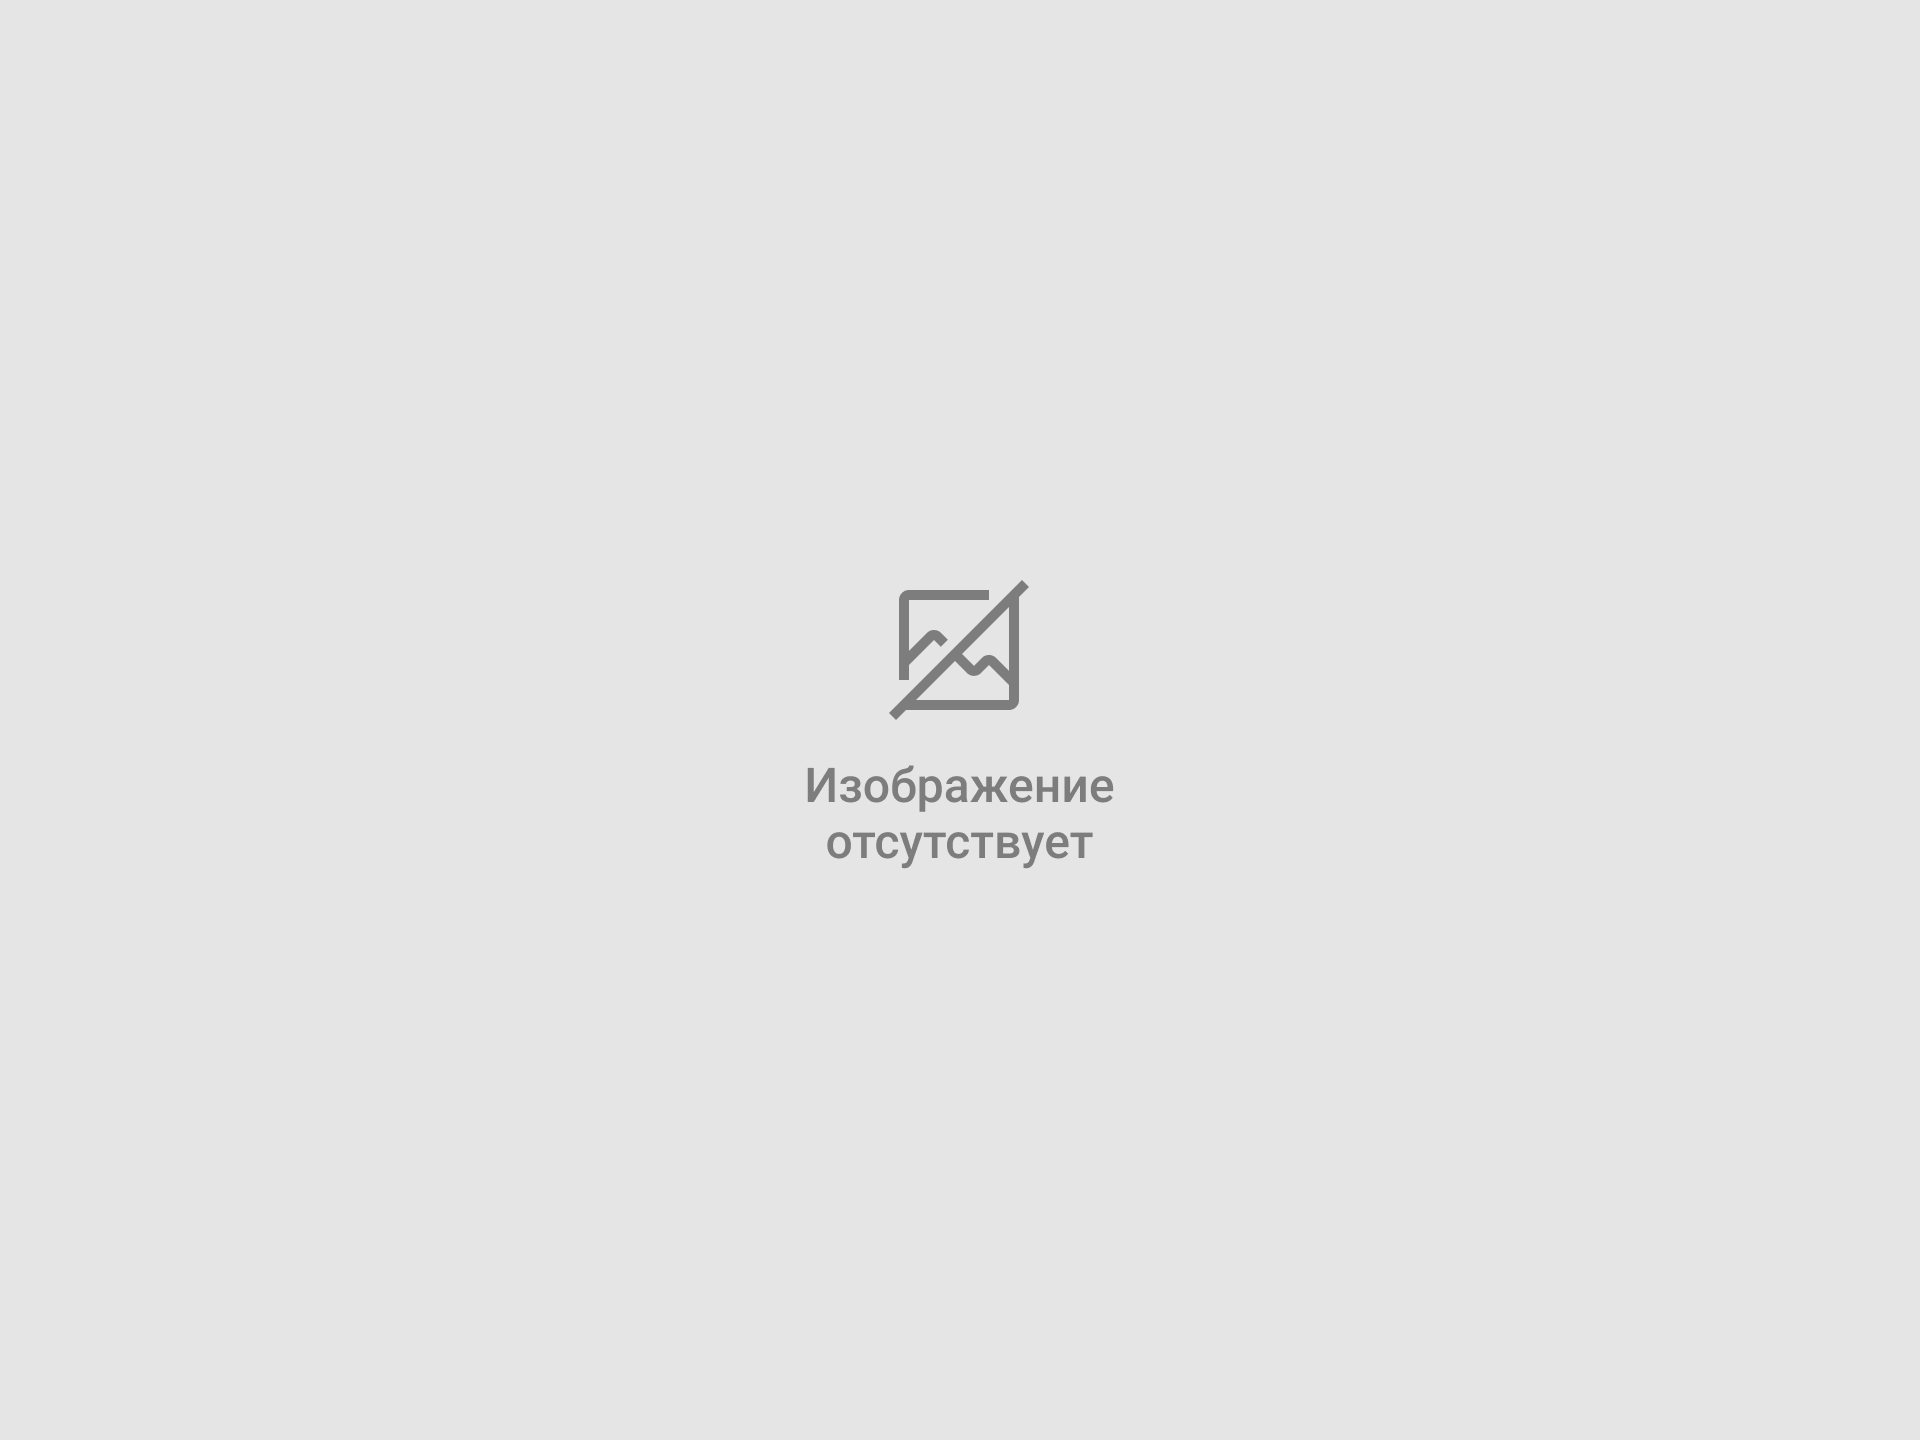
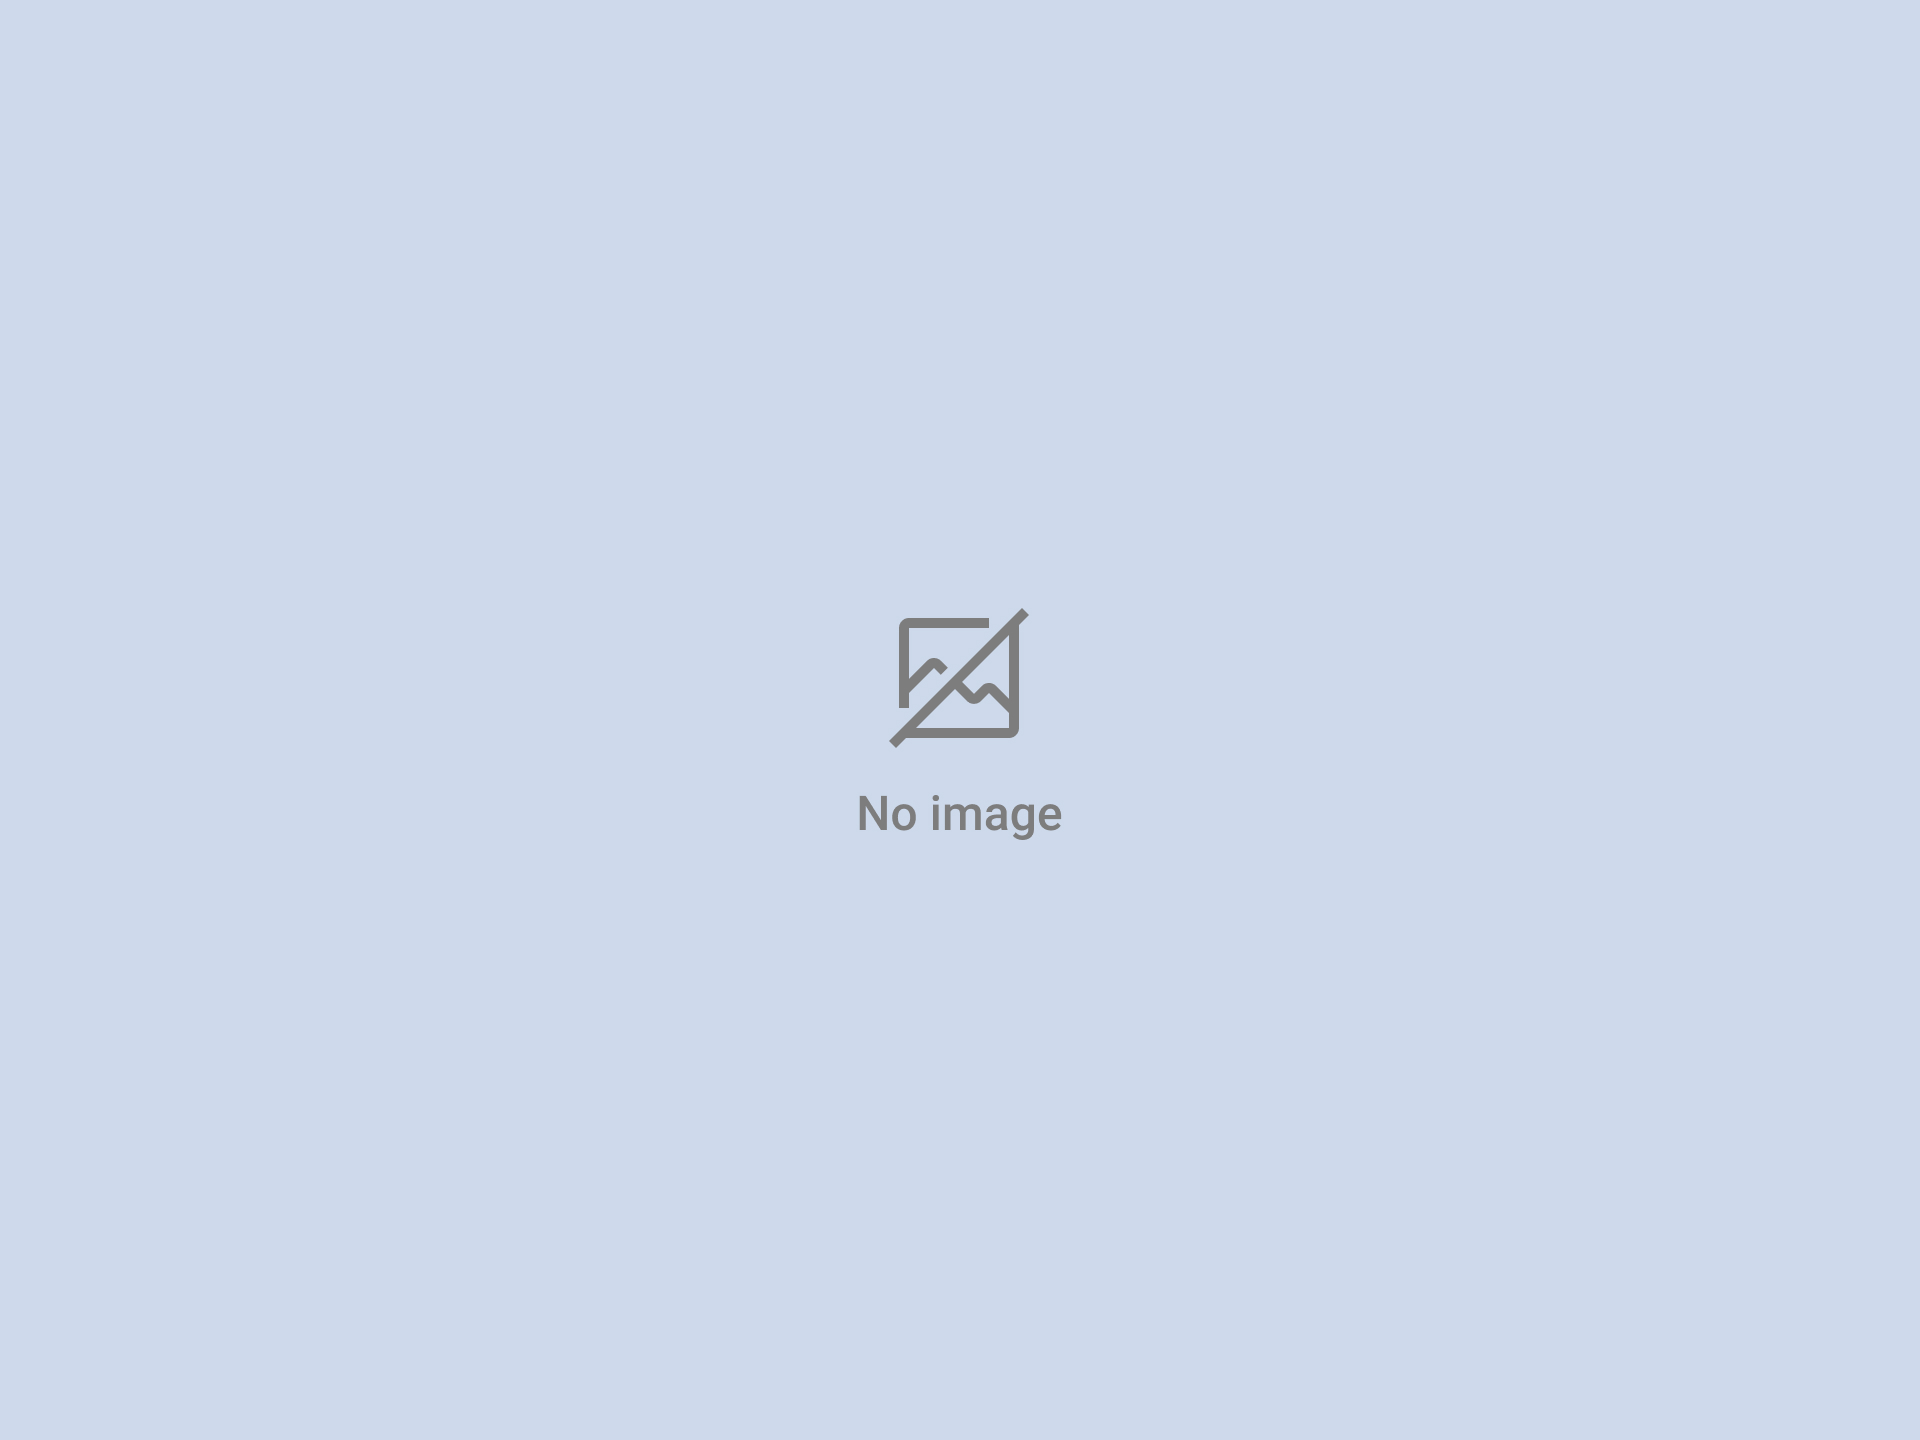
feat: update page 404

Changed region(s): [[0.4062, 0.4062, 0.5938, 0.5938]]

diff --git a/assets/css/universal-theme.css b/assets/css/universal-theme.css
@@ -415,22 +415,29 @@ body {
   margin-top: 8px;
 }
 
-.more {
+.more,
+.button {
   display: inline-block;
   color: #fff;
   padding: 10px 20px;
-  padding-right: 50px;
   border-radius: 20px;
   background: #4592FF;
   text-decoration: none;
-  background-image: url("../images/arrow.svg");
-  background-repeat: no-repeat;
-  background-position: center right 20px;
   border: none;
   cursor: pointer;
 }
-.more:visited, .more:focus, .more:hover {
+.more:visited, .more:focus, .more:hover,
+.button:visited,
+.button:focus,
+.button:hover {
   color: #fff;
+}
+
+.more {
+  background-image: url("../images/arrow.svg");
+  background-repeat: no-repeat;
+  background-position: center right 20px;
+  padding-right: 50px;
 }
 
 .category-link {
@@ -2569,4 +2576,28 @@ nav.navigation.pagination {
 
 .video {
   width: 100%;
+}
+
+.page404 {
+  background-color: #ffeb13;
+  display: grid;
+  place-items: center center;
+  height: 100%;
+  min-height: 50vh;
+  width: 100%;
+}
+.page404-content {
+  display: -webkit-box;
+  display: -ms-flexbox;
+  display: flex;
+  -webkit-box-align: center;
+      -ms-flex-align: center;
+          align-items: center;
+  -webkit-box-pack: center;
+      -ms-flex-pack: center;
+          justify-content: center;
+  -webkit-box-orient: vertical;
+  -webkit-box-direction: normal;
+      -ms-flex-direction: column;
+          flex-direction: column;
 }

diff --git a/assets/sass/_hero.sass b/assets/sass/_hero.sass
@@ -101,21 +101,23 @@
         font-weight: 400
         margin-bottom: 0
         margin-top: 8px
-.more
+.more,
+.button
   display: inline-block
   color: #fff
   padding: 10px 20px
-  padding-right: 50px
   border-radius: 20px
   background: #4592FF
   text-decoration: none
-  background-image: url('../images/arrow.svg')
-  background-repeat: no-repeat
-  background-position: center right 20px
   border: none
   cursor: pointer
   &:visited, &:focus, &:hover
     color: #fff
+.more
+  background-image: url('../images/arrow.svg')
+  background-repeat: no-repeat
+  background-position: center right 20px
+  padding-right: 50px
 .category-link
   color: #4592FF
   text-transform: uppercase

diff --git a/assets/sass/_page404.sass b/assets/sass/_page404.sass
@@ -1,0 +1,12 @@
+.page404
+  background-color: #ffeb13
+  display: grid
+  place-items: center center
+  height: 100%
+  min-height: 50vh
+  width: 100%
+  &-content
+    display: flex
+    align-items: center
+    justify-content: center
+    flex-direction: column

diff --git a/assets/sass/universal-theme.sass b/assets/sass/universal-theme.sass
@@ -17,3 +17,4 @@
 @import 'search'
 @import 'contacts'
 @import 'lesson'
+@import 'page404'

diff --git a/footer.php b/footer.php
@@ -1,6 +1,6 @@
   <footer class="footer">
     <div class="container">
-      <?php if( ! is_page( 'thankyou' ) ) : ?>
+      <?php if( ! is_page( 'thankyou' ) && ! is_404()  ) : ?>
       <div class="footer-form-wrapper">
         <h3 class="footer-form-title">Подпишитесь на нашу рассылку</h3>
         <form action="https://app.getresponse.com/add_subscriber.html" accept-charset="utf-8" method="post" class="footer-form">

diff --git a/404.php b/404.php
@@ -1,8 +1,10 @@
-<div 
-  style="background-color: #ffeb13; 
-    display: grid;
-    place-items: center center;
-    height: 100%; width: 100%;"
->
-  <h1>This is 404 page!</h1>
-</div>
+<?php get_header(); ?>
+
+<section class="page404">
+  <div class="page404-content">
+    <h1>This is 404 page!</h1>
+    <a href="<?php echo get_home_url(); ?>" class="button">На главную</a>
+  </div>
+</section>
+
+<?php get_footer(); ?>

diff --git a/header.php b/header.php
@@ -8,7 +8,7 @@
   <?php wp_head(); ?>
 </head>
 
-<body <?php body_class(); ?>>
+<body <?php body_class(); ?> style="background-color: #E5E5E5;">
 <?php wp_body_open(); ?>
 <header class="header">
   <div class="container">
